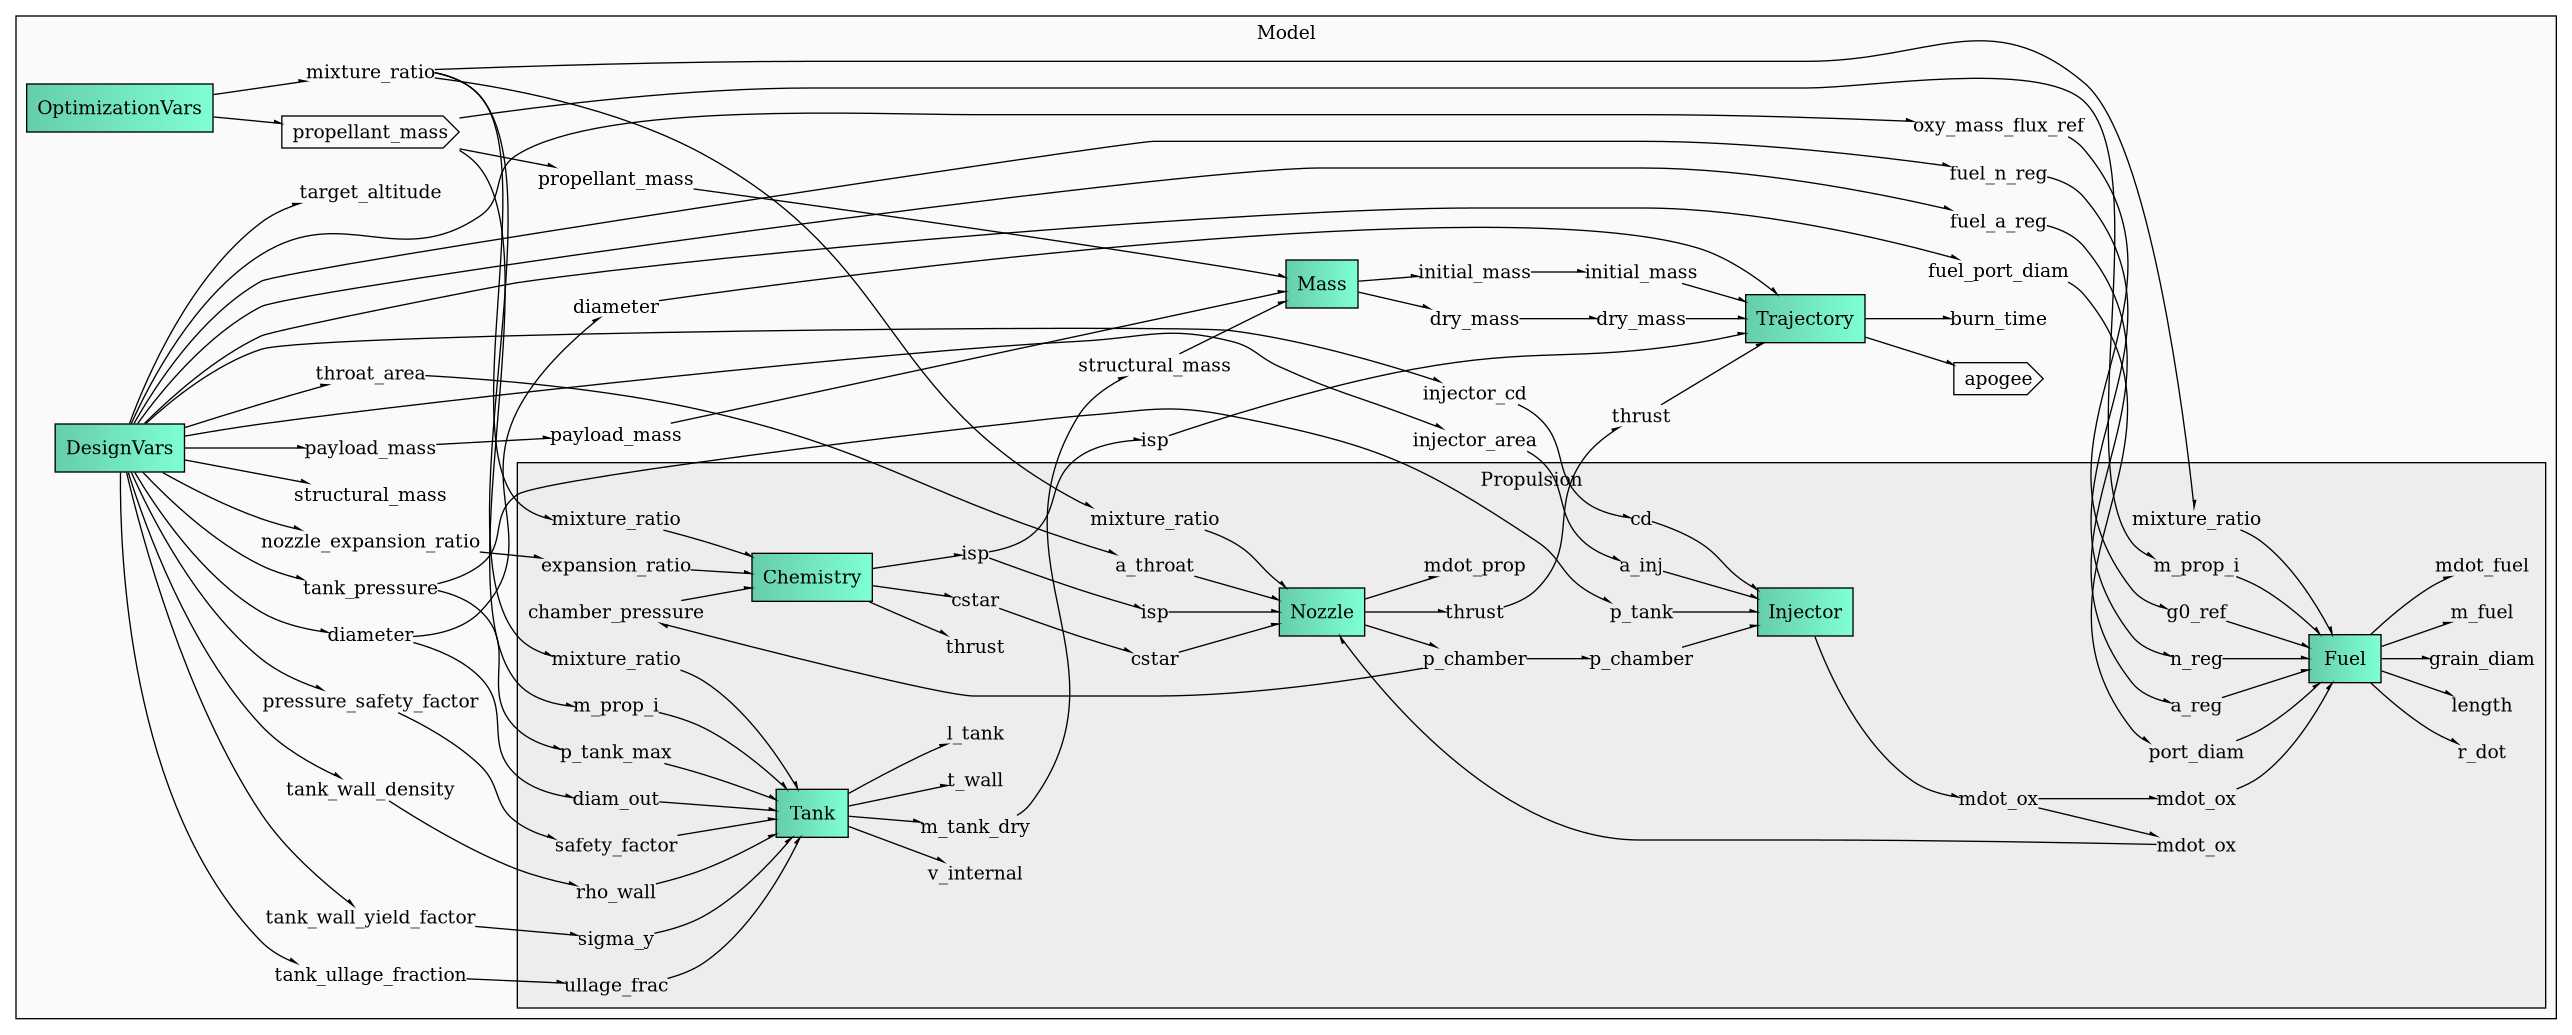
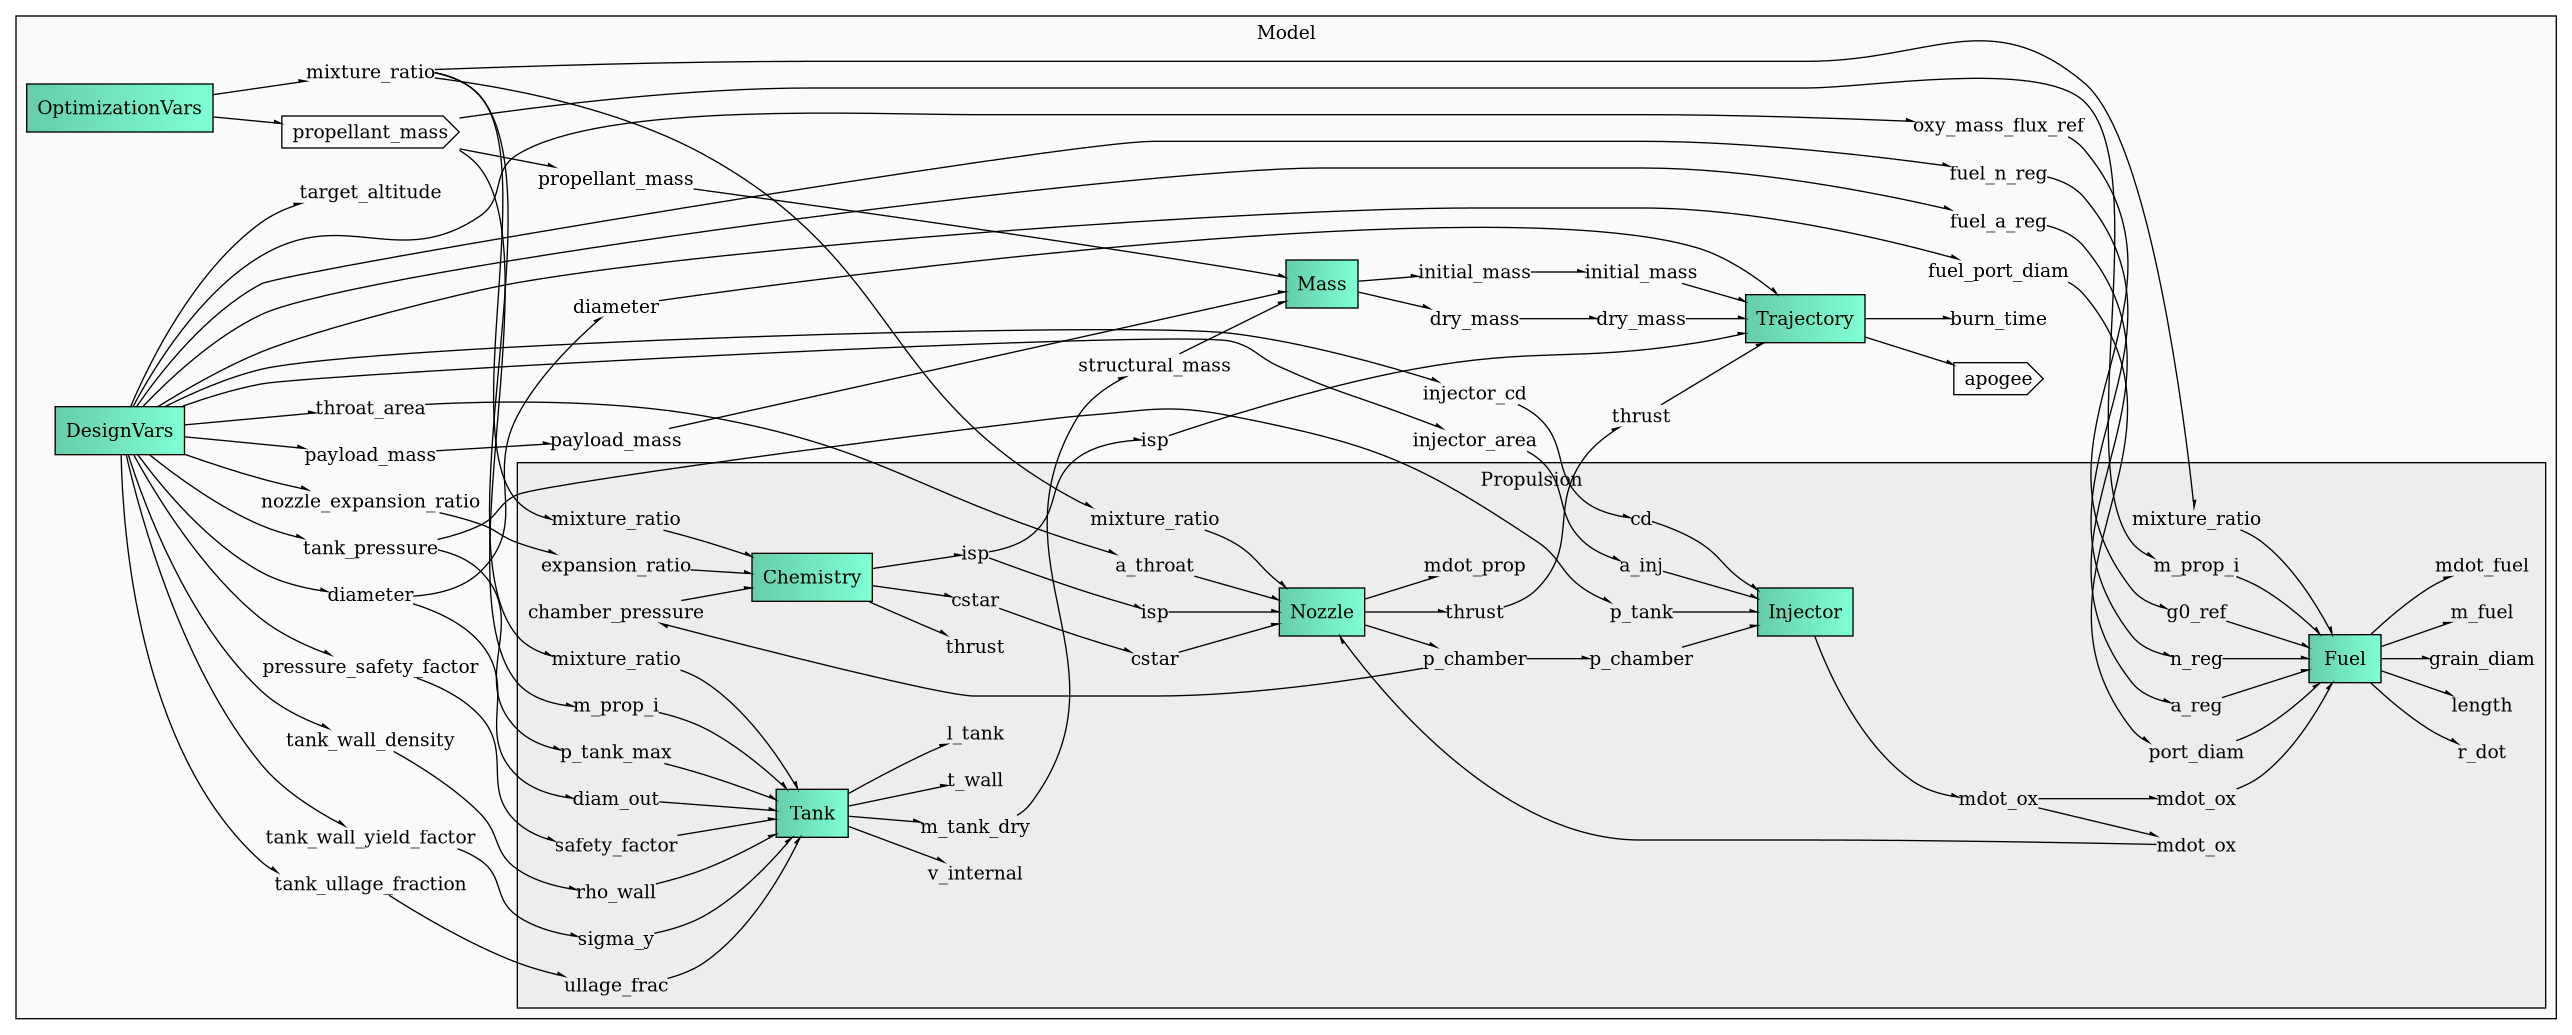
Pruning loose parameters

diff --git a/rocket-solver/modules/BEARS_Rocket/group_rocket.py b/rocket-solver/modules/BEARS_Rocket/group_rocket.py
@@ -39,7 +39,6 @@ class RocketGroup(Group):
 		ivc.add_output("tank_wall_yield_factor", val=276e6,  units="Pa")
 		ivc.add_output("tank_wall_density",      val=2700.0, units="kg/m**3")
 		ivc.add_output("nozzle_expansion_ratio", val=40.0)
-		ivc.add_output("structural_mass",        val=2.0,    units="kg")
 
 		# - Injector
 		ivc.add_output("injector_area",          val=4.5e-5, units="m**2")
